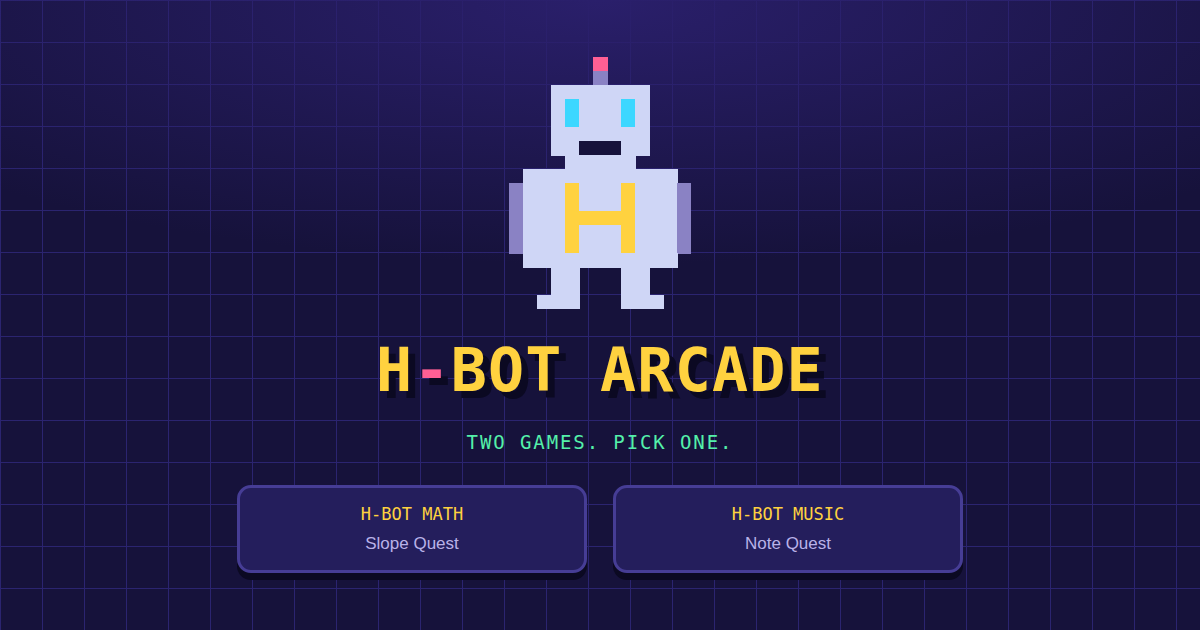
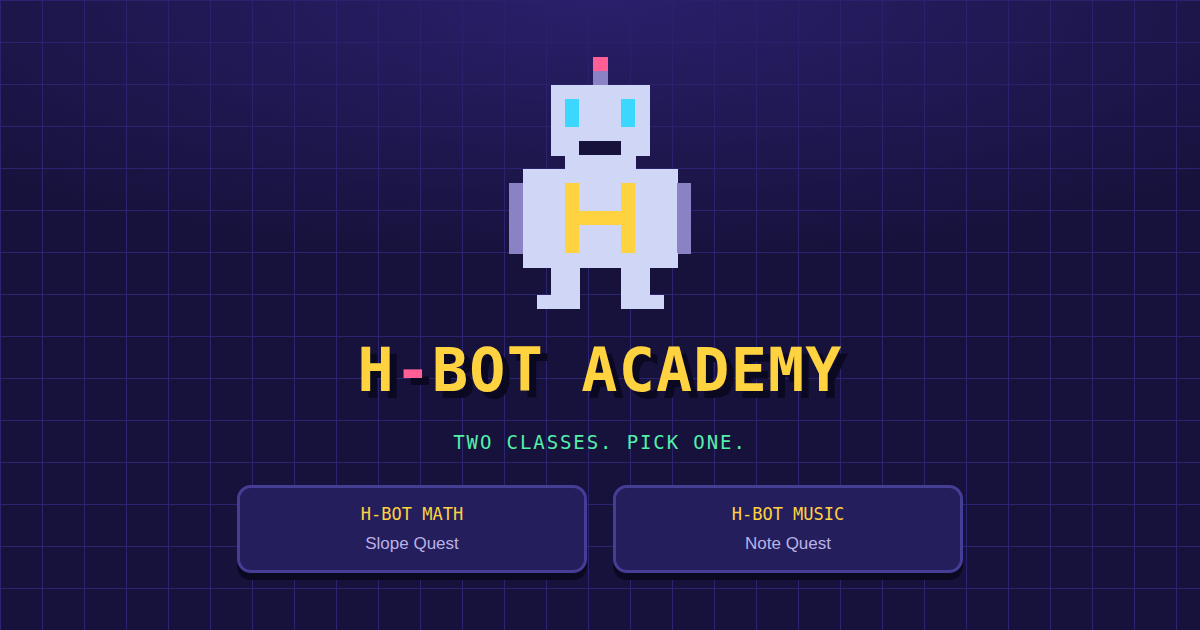
Rename the lobby to H-Bot Academy
Claude-Session: https://claude.ai/code/session_01BnQDbpNg9ZWCn4ahD4CcoU

Changed region(s): [[0.2775, 0.5429, 0.7092, 0.6333], [0.37, 0.6937, 0.6167, 0.7238]]

diff --git a/music/index.html b/music/index.html
@@ -9,7 +9,7 @@
 <link rel="icon" href="../favicon.svg" type="image/svg+xml">
 <link rel="apple-touch-icon" href="../apple-touch-icon.png">
 <meta name="apple-mobile-web-app-title" content="H-Bot Music">
-<meta property="og:site_name" content="H-Bot Arcade">
+<meta property="og:site_name" content="H-Bot Academy">
 <meta property="og:title" content="H-Bot Music: Note Quest">
 <meta property="og:description" content="Bass clef from scratch: the staff, landmarks, ledger lines, rhythm, and your own bass neck.">
 <meta property="og:type" content="website">

diff --git a/math/index.html b/math/index.html
@@ -9,7 +9,7 @@
 <link rel="icon" href="../favicon.svg" type="image/svg+xml">
 <link rel="apple-touch-icon" href="../apple-touch-icon.png">
 <meta name="apple-mobile-web-app-title" content="H-Bot Math">
-<meta property="og:site_name" content="H-Bot Arcade">
+<meta property="og:site_name" content="H-Bot Academy">
 <meta property="og:title" content="H-Bot Math: Slope Quest">
 <meta property="og:description" content="Slope, the slope formula, y = mx + b, and intercepts. Five worlds and a boss fight.">
 <meta property="og:type" content="website">

diff --git a/README.md b/README.md
@@ -1,11 +1,11 @@
-# H-Bot Arcade
+# H-Bot Academy
 
 Study games built for one 8th grader. Two so far.
 
 - **H-Bot Math (Slope Quest)**, in `math/`: slope, the slope formula, y = mx + b, intercepts.
 - **H-Bot Music (Note Quest)**, in `music/`: bass clef reading, ledger lines, rhythm, and the bass neck.
 
-Each game is a single HTML file. No build step, no dependencies, no network calls beyond Google Fonts, which fall back to system fonts offline. The root page is an arcade lobby that reads each game's saved XP out of `localStorage` and shows it on the cabinet.
+Each game is a single HTML file. No build step, no dependencies, no network calls beyond Google Fonts, which fall back to system fonts offline. The root page is a lobby that reads each game's saved XP out of `localStorage` and shows it on the cabinet.
 
 **Live:** https://jonesco.github.io/hbot/
 
